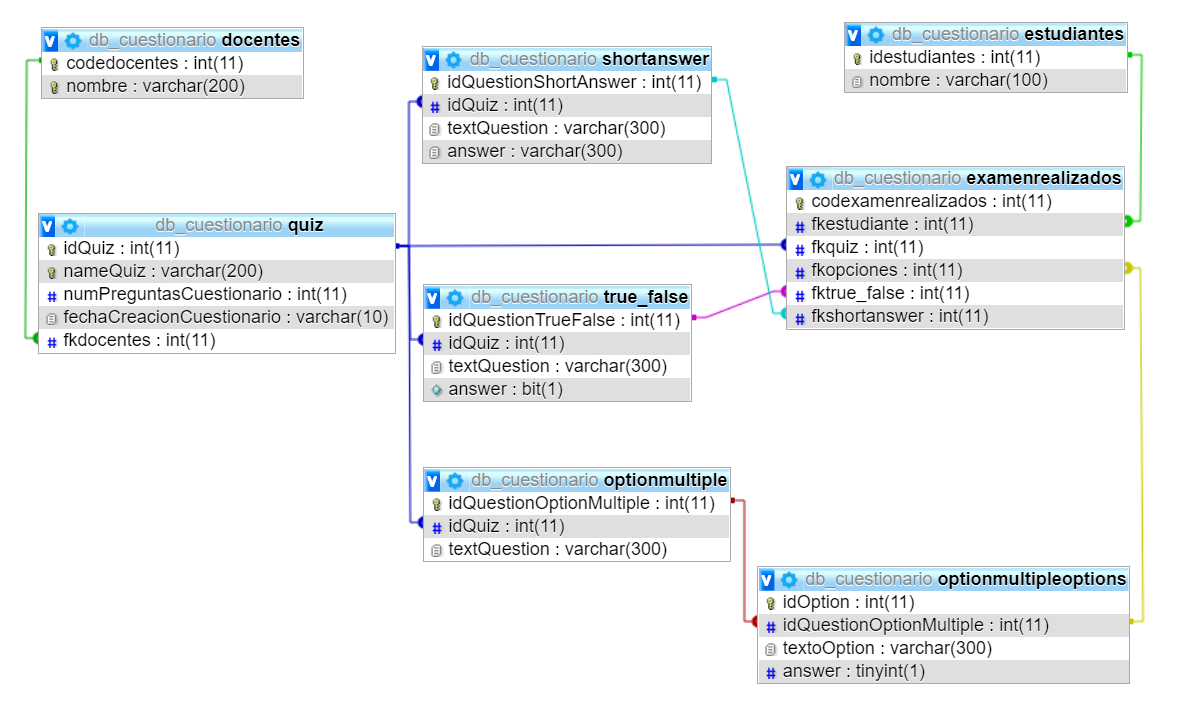
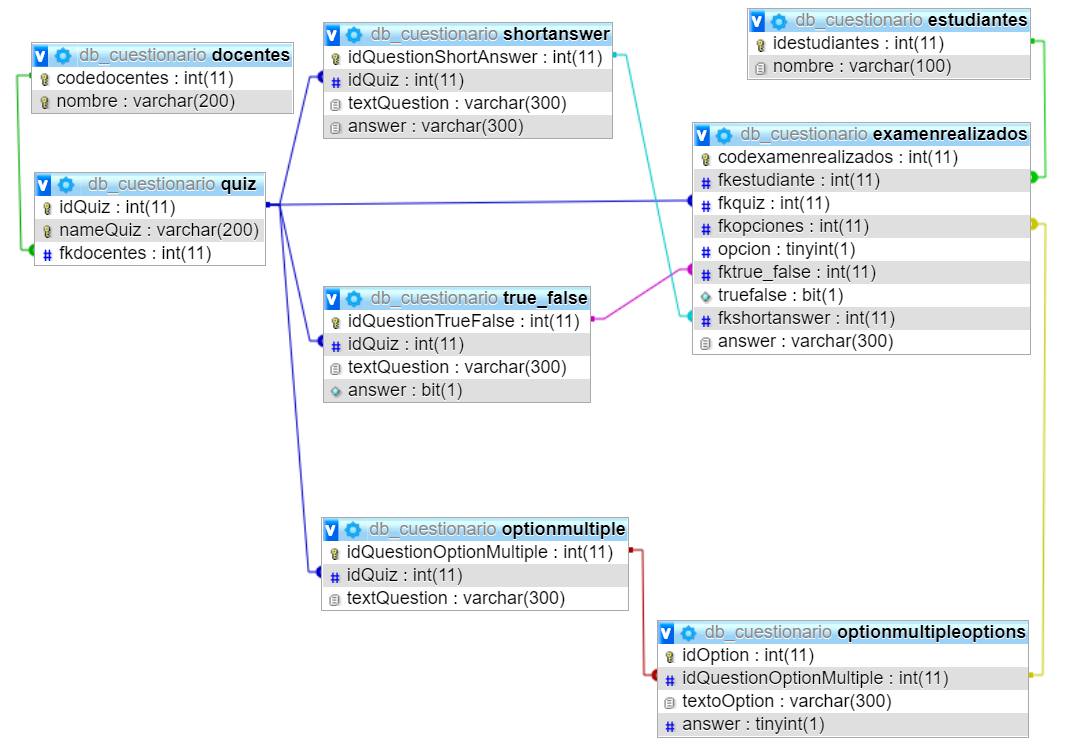
cambios BD (sql, grafico); actualizacion persistencia
Cambios a las clases del paquete modelo para actualizar la persistencia de datos con la BD

diff --git a/src/main/java/edu/utpl/arquiapp/websocket/model/Quiz.java b/src/main/java/edu/utpl/arquiapp/websocket/model/Quiz.java
@@ -14,15 +14,19 @@ public class Quiz implements Serializable {
     private Long idQuiz;
     @Column(name = "nameQuiz")
     private String nameQuiz;
-    @OneToMany(cascade = CascadeType.ALL)
-    @JoinColumn(name = "quiz_idQuiz")
+    @OneToMany
     private List<QuestionOptionMultiple> optionMultiple;
-    @OneToMany(cascade = CascadeType.ALL)
-    @JoinColumn(name = "quiz_idQuiz")
+    @OneToMany
     private List<QuestionTrueFalse> optionTrueFalse;
-    @OneToMany(cascade = CascadeType.ALL)
-    @JoinColumn(name = "quiz_idQuiz")
+    @OneToMany
     private List<QuestionShortAnswer> optionShortAnswer;
+
+    @OneToOne(cascade = CascadeType.PERSIST)
+    @JoinColumn(name = "fkdocentes")
+    private Docente docente;
+
+    @OneToMany
+    private List<ExamenRealizado> examenRealizado;
 
     public Quiz(){
 
@@ -30,6 +34,17 @@ public class Quiz implements Serializable {
 
     public Quiz(String nameQuiz) {
         this.nameQuiz = nameQuiz;
+    }
+
+    public Quiz(String nameQuiz, Docente docente) {
+        this.nameQuiz = nameQuiz;
+        this.docente = docente;
+    }
+
+    public Quiz(String nameQuiz, Docente docente, List<ExamenRealizado> examenRealizado) {
+        this.nameQuiz = nameQuiz;
+        this.docente = docente;
+        this.examenRealizado = examenRealizado;
     }
 
     public Long getIdQuiz() {
@@ -71,4 +86,21 @@ public class Quiz implements Serializable {
     public void setOptionShortAnswer(List<QuestionShortAnswer> optionShortAnswer) {
         this.optionShortAnswer = optionShortAnswer;
     }
+
+    public Docente getDocente() {
+        return docente;
+    }
+
+    public void setDocente(Docente docente) {
+        this.docente = docente;
+    }
+
+    public List<ExamenRealizado> getExamenRealizado() {
+        return examenRealizado;
+    }
+
+    public void setExamenRealizado(List<ExamenRealizado> examenRealizado) {
+        this.examenRealizado = examenRealizado;
+    }
+
 }

diff --git a/src/main/java/edu/utpl/arquiapp/websocket/model/OptionsQuestionOptionMultiple.java b/src/main/java/edu/utpl/arquiapp/websocket/model/OptionsQuestionOptionMultiple.java
@@ -2,6 +2,7 @@ package edu.utpl.arquiapp.websocket.model;
 
 import javax.persistence.*;
 import java.io.Serializable;
+import java.util.List;
 
 @Entity
 @Table(name = "optionmultipleoptions")
@@ -15,8 +16,11 @@ public class OptionsQuestionOptionMultiple implements Serializable {
     private String textOption;
     @Column(name = "answer")
     private boolean answer;
-    @ManyToOne(fetch = FetchType.LAZY)
+    @OneToOne(cascade = CascadeType.PERSIST)
+    @JoinColumn(name = "idQuestionOptionMultiple")
     private QuestionOptionMultiple questionOptionMultiple;
+    @OneToMany
+    private List<ExamenRealizado> examenRealizado;
 
     public OptionsQuestionOptionMultiple(){
 
@@ -26,6 +30,13 @@ public class OptionsQuestionOptionMultiple implements Serializable {
         this.textOption = textOption;
         this.answer = answer;
         this.questionOptionMultiple = questionOptionMultiple;
+    }
+
+    public OptionsQuestionOptionMultiple(String textOption, boolean answer, QuestionOptionMultiple questionOptionMultiple, List<ExamenRealizado> examenRealizado) {
+        this.textOption = textOption;
+        this.answer = answer;
+        this.questionOptionMultiple = questionOptionMultiple;
+        this.examenRealizado = examenRealizado;
     }
 
     public Long getIdOption() {
@@ -59,4 +70,13 @@ public class OptionsQuestionOptionMultiple implements Serializable {
     public void setQuestionOptionMultiple(QuestionOptionMultiple questionOptionMultiple) {
         this.questionOptionMultiple = questionOptionMultiple;
     }
+
+    public List<ExamenRealizado> getExamenRealizado() {
+        return examenRealizado;
+    }
+
+    public void setExamenRealizado(List<ExamenRealizado> examenRealizado) {
+        this.examenRealizado = examenRealizado;
+    }
+
 }

diff --git a/src/main/java/edu/utpl/arquiapp/websocket/model/ExamenRealizado.java b/src/main/java/edu/utpl/arquiapp/websocket/model/ExamenRealizado.java
@@ -8,31 +8,36 @@ import java.io.Serializable;
 public class ExamenRealizado implements Serializable {
     @Id
     @GeneratedValue(strategy= GenerationType.AUTO)
-    @Column(name = "codexamenrealizados")
+    @Column(name = "idexamen")
     private int codexamenrealizados;
 
-    @ManyToOne(fetch = FetchType.LAZY)
+    @ManyToOne(cascade = CascadeType.PERSIST)
+    @JoinColumn(name = "fkestudiante")
     private Estudiante estudiante;
 
-    @ManyToOne(fetch = FetchType.LAZY)
+    @OneToOne(cascade = CascadeType.PERSIST)
+    @JoinColumn(name = "fkquiz")
     private Quiz Cuestionario;
 
-    @ManyToOne(fetch = FetchType.LAZY)
+    @OneToOne(cascade = CascadeType.PERSIST)
+    @JoinColumn(name = "fkopciones")
     private OptionsQuestionOptionMultiple optionMultiple;
 
-    @Column(name = "answerOption")
+    @Column(name = "opcion")
     private boolean answerOption;
 
-    @ManyToOne(fetch = FetchType.LAZY)
+    @OneToOne(cascade = CascadeType.PERSIST)
+    @JoinColumn(name = "fktrue_false")
     private QuestionTrueFalse trueFalse;
 
-    @Column(name = "answer")
+    @Column(name = "truefalse")
     private boolean answer;
 
-    @ManyToOne(fetch = FetchType.LAZY)
+    @OneToOne(cascade = CascadeType.PERSIST)
+    @JoinColumn(name = "fkshortanswer")
     private QuestionShortAnswer shortAnswer;
 
-    @Column(name = "textAnswer")
+    @Column(name = "answer")
     private String textAnswer;
 
     public ExamenRealizado() {
@@ -120,4 +125,5 @@ public class ExamenRealizado implements Serializable {
     public void setTextAnswer(String textAnswer) {
         this.textAnswer = textAnswer;
     }
+
 }

diff --git a/src/main/java/edu/utpl/arquiapp/websocket/model/QuestionShortAnswer.java b/src/main/java/edu/utpl/arquiapp/websocket/model/QuestionShortAnswer.java
@@ -2,9 +2,10 @@ package edu.utpl.arquiapp.websocket.model;
 
 import javax.persistence.*;
 import java.io.Serializable;
+import java.util.List;
 
 @Entity
-@Table(name = "shortAnswer")
+@Table(name = "shortanswer")
 public class QuestionShortAnswer  implements Serializable {
 
     @Id
@@ -15,8 +16,12 @@ public class QuestionShortAnswer  implements Serializable {
     private String textQuestion;
     @Column(name = "answer")
     private String answer;
-    @ManyToOne(fetch = FetchType.LAZY)
+    @OneToOne(cascade = CascadeType.PERSIST)
+    @JoinColumn(name = "idQuiz")
     private Quiz quiz;
+
+    @OneToMany
+    private List<ExamenRealizado> examenRealizado;
 
     public QuestionShortAnswer(){
 
@@ -26,6 +31,13 @@ public class QuestionShortAnswer  implements Serializable {
         this.textQuestion = textQuestion;
         this.answer = answer;
         this.quiz = quiz;
+    }
+
+    public QuestionShortAnswer(String textQuestion, String answer, Quiz quiz, List<ExamenRealizado> examenRealizado) {
+        this.textQuestion = textQuestion;
+        this.answer = answer;
+        this.quiz = quiz;
+        this.examenRealizado = examenRealizado;
     }
 
     public Long getIdQuestionShortAnswer() {
@@ -58,5 +70,13 @@ public class QuestionShortAnswer  implements Serializable {
 
     public void setQuiz(Quiz quiz) {
         this.quiz = quiz;
+    }
+
+    public List<ExamenRealizado> getExamenRealizado() {
+        return examenRealizado;
+    }
+
+    public void setExamenRealizado(List<ExamenRealizado> examenRealizado) {
+        this.examenRealizado = examenRealizado;
     }
 }

diff --git a/src/main/java/edu/utpl/arquiapp/websocket/model/QuestionTrueFalse.java b/src/main/java/edu/utpl/arquiapp/websocket/model/QuestionTrueFalse.java
@@ -2,6 +2,7 @@ package edu.utpl.arquiapp.websocket.model;
 
 import javax.persistence.*;
 import java.io.Serializable;
+import java.util.List;
 
 @Entity
 @Table(name = "true_false")
@@ -15,8 +16,11 @@ public class QuestionTrueFalse  implements Serializable {
     private String textQuestion;
     @Column(name = "answer")
     private boolean answer;
-    @ManyToOne(fetch = FetchType.LAZY)
+    @OneToOne(cascade = CascadeType.PERSIST)
+    @JoinColumn(name = "idQuiz")
     private Quiz quiz;
+    @OneToMany
+    private List<ExamenRealizado> examenRealizado;
 
     public QuestionTrueFalse(){
 
@@ -26,6 +30,13 @@ public class QuestionTrueFalse  implements Serializable {
         this.textQuestion = textQuestion;
         this.answer = answer;
         this.quiz = quiz;
+    }
+
+    public QuestionTrueFalse(String textQuestion, boolean answer, Quiz quiz, List<ExamenRealizado> examenRealizado) {
+        this.textQuestion = textQuestion;
+        this.answer = answer;
+        this.quiz = quiz;
+        this.examenRealizado = examenRealizado;
     }
 
     public Long getIdQuestionTrueFalse() {
@@ -59,4 +70,13 @@ public class QuestionTrueFalse  implements Serializable {
     public void setQuiz(Quiz quiz) {
         this.quiz = quiz;
     }
+
+    public List<ExamenRealizado> getExamenRealizado() {
+        return examenRealizado;
+    }
+
+    public void setExamenRealizado(List<ExamenRealizado> examenRealizado) {
+        this.examenRealizado = examenRealizado;
+    }
+
 }

diff --git a/src/main/java/edu/utpl/arquiapp/websocket/model/QuestionOptionMultiple.java b/src/main/java/edu/utpl/arquiapp/websocket/model/QuestionOptionMultiple.java
@@ -14,11 +14,11 @@ public class QuestionOptionMultiple implements Serializable {
     private Long idQuestionOptionMultiple;
     @Column(name = "textQuestion")
     private String textQuestion;
-    @OneToMany(cascade = CascadeType.ALL)
-    @JoinColumn(name = "QuestionOptionMultiple_idQuestionOptionMultiple")
-    private List<OptionsQuestionOptionMultiple> options;
-    @ManyToOne(fetch = FetchType.LAZY)
+    @OneToOne(cascade = CascadeType.PERSIST)
+    @JoinColumn(name = "idQuiz")
     private Quiz quiz;
+    @OneToMany
+    private List<OptionsQuestionOptionMultiple> options;
 
     public QuestionOptionMultiple(){
 

diff --git a/src/main/java/edu/utpl/arquiapp/websocket/model/Estudiante.java b/src/main/java/edu/utpl/arquiapp/websocket/model/Estudiante.java
@@ -5,6 +5,7 @@ package edu.utpl.arquiapp.websocket.model;/*
  */
 
 import javax.persistence.*;
+import java.util.ArrayList;
 import java.util.List;
 
 /**
@@ -21,8 +22,7 @@ public class Estudiante {
     @Column(name = "nombre")
     private String nombre;
     // cambios
-    @OneToMany(cascade = CascadeType.ALL)
-    @JoinColumn(name = "docentes_codedocentes")
+    @OneToMany
     private List<ExamenRealizado> examenRealizados;
 
     public Estudiante() {

diff --git a/src/main/java/edu/utpl/arquiapp/websocket/model/Docente.java b/src/main/java/edu/utpl/arquiapp/websocket/model/Docente.java
@@ -5,6 +5,7 @@ package edu.utpl.arquiapp.websocket.model;/*
  */
 
 import javax.persistence.*;
+import java.util.ArrayList;
 import java.util.List;
 
 /**
@@ -21,8 +22,7 @@ public class Docente {
     @Column(name = "nombre")
     String nombre;
 
-    @OneToMany(cascade = CascadeType.ALL)
-    @JoinColumn(name = "docentes_codedocentes")
+    @OneToMany
     private List<Quiz> cuestionario;
 
     public Docente() {
